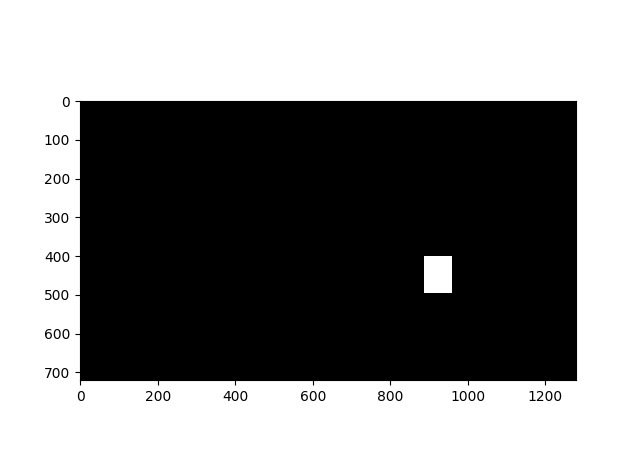
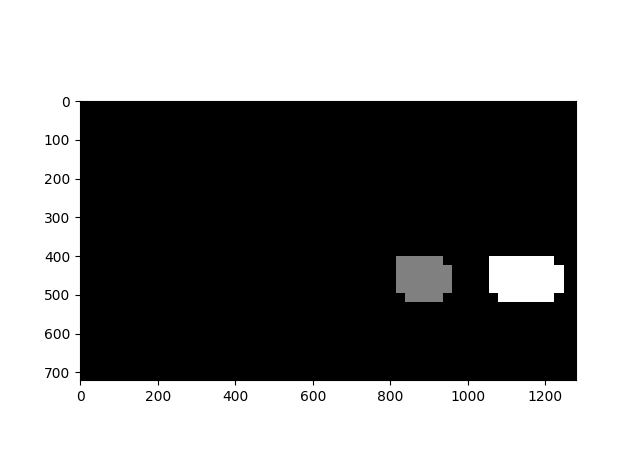
c6

Changed region(s): [[0.75, 0.5294, 0.9062, 0.6471], [0.5938, 0.5294, 0.7188, 0.6471]]

diff --git a/main.py b/main.py
@@ -124,25 +124,28 @@ def pipeline(image,i):
 
     # Visualize the heatmap when displaying    
     heatmap = np.clip(heat, 0, 255)
-    #plt.imshow(heatmap)
+    plt.imshow(heatmap)
+    plt.show()
     
-    #plt.show()
     # Find final boxes from heatmap using label function
     labels = label(heatmap)
-    #cv2.imwrite('label_'+str(i)+'.png',labels[0])
     plt.imshow(labels[0], cmap='gray')
     plt.show()
+    
+    
     draw_img = draw_labeled_bboxes(np.copy(image), labels)
 
     return draw_img
     
     
-
+#201222
 def main():
-    for i in range(1,6):
+    for i in range(1,7):
         image = mpimg.imread('C:/Users/LPC/Documents/GitHub/CarND-Vehicle-Detection-master/test_images/test'+str(i)+'.jpg')
-        pipeline(image,i)
-    
+        draw_img=pipeline(image,i)
+        plt.imshow(draw_img)
+        plt.show()
+        #print(i)
     # clip = VideoFileClip('project_video.mp4').fl_image(pipeline)
     # clip.write_videofile('out_project_video.mp4', audio=False, verbose=False)
     
